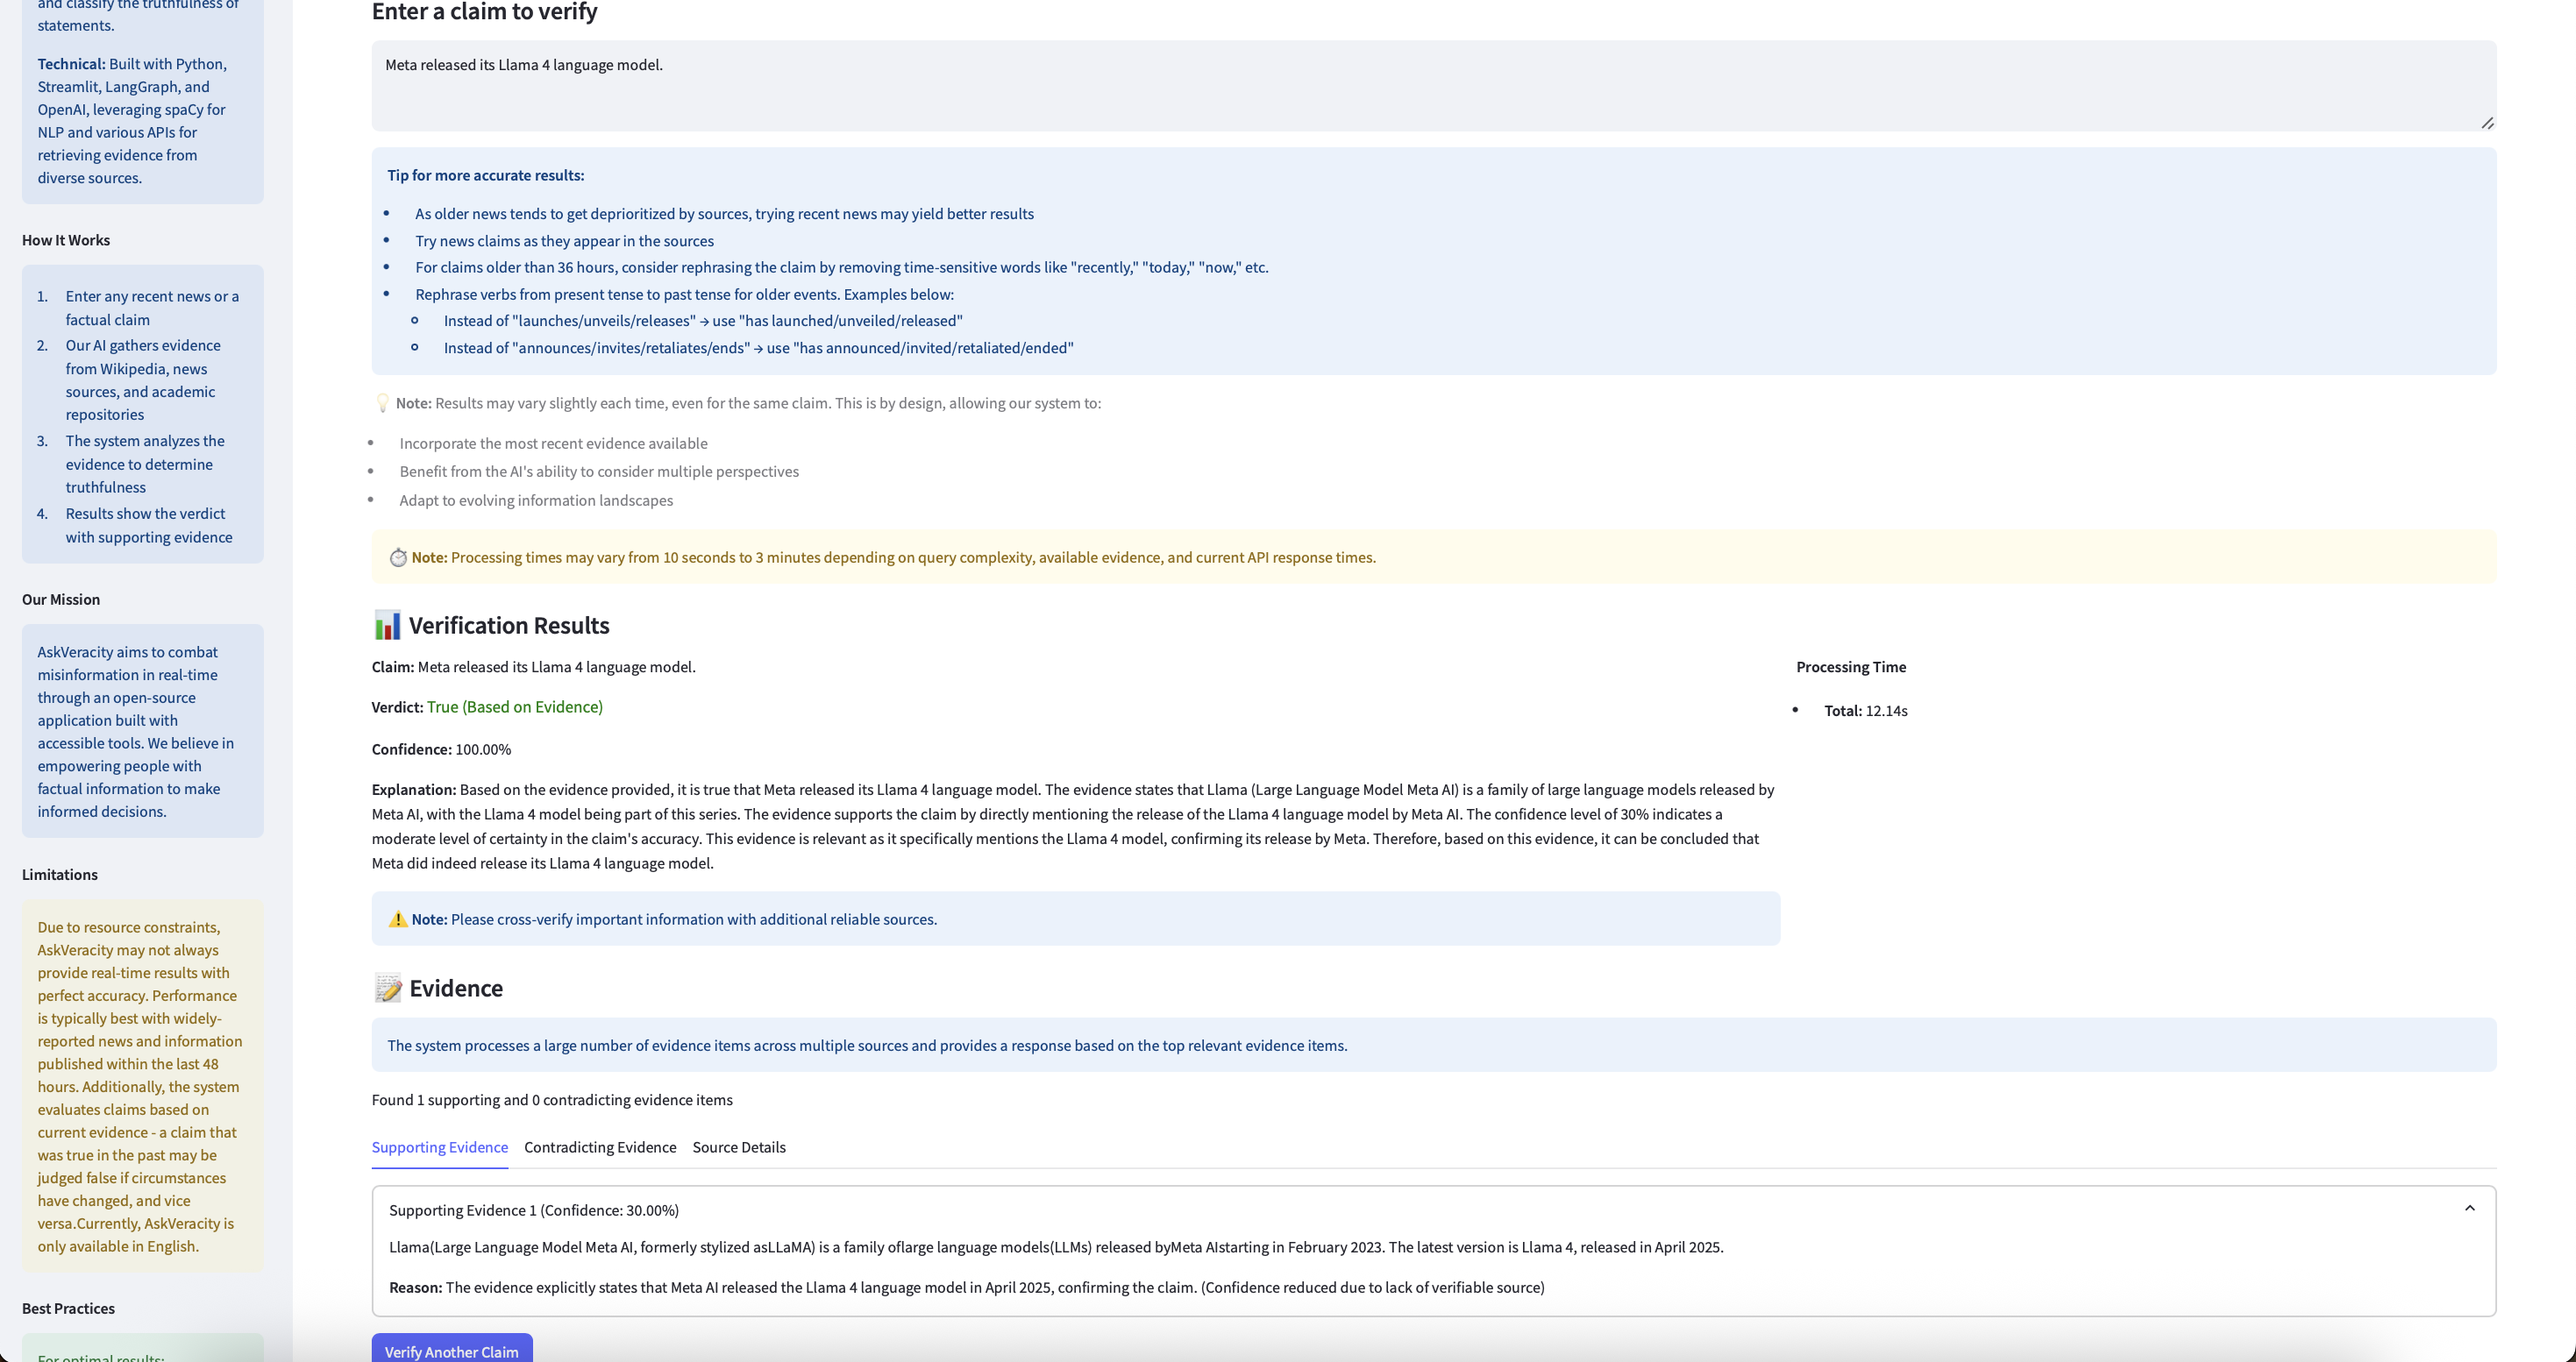
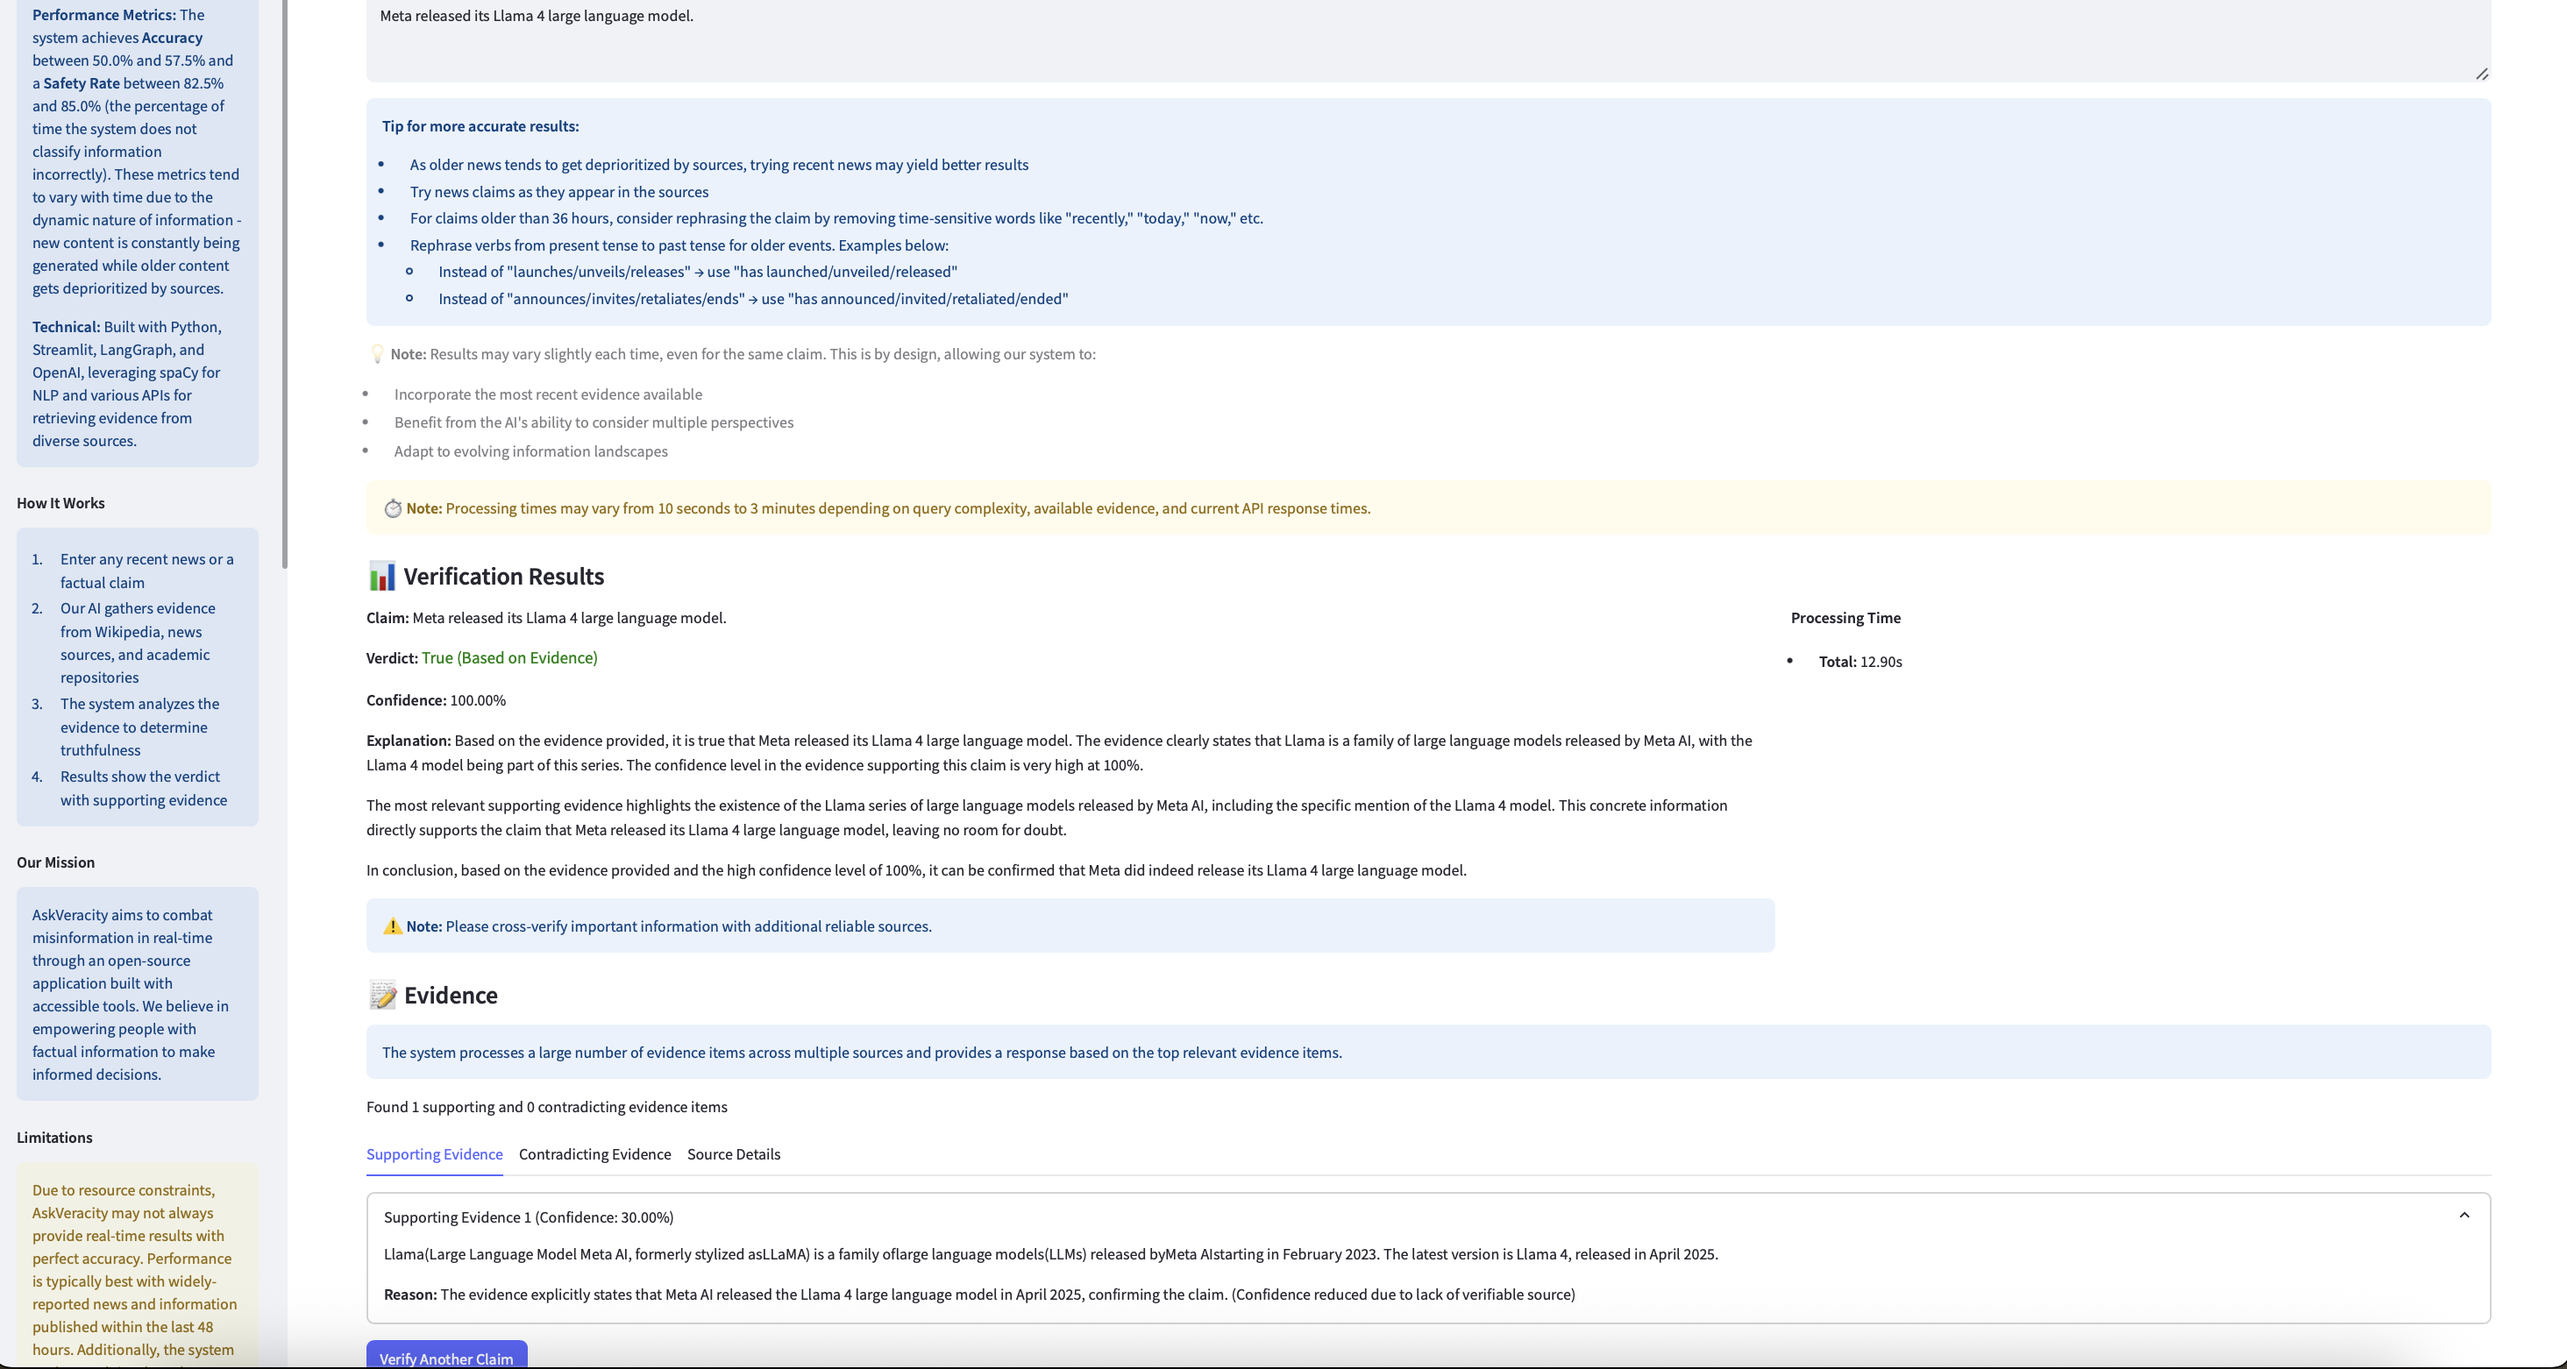
Update app.py, changelog.md, evaluate_performance.py, and app_screenshot.png

diff --git a/app.py b/app.py
@@ -147,6 +147,8 @@ with st.sidebar:
     st.info(
         "This system uses a combination of NLP techniques and LLMs to "
         "extract claims, gather evidence, and classify the truthfulness of statements.\n\n"
+        "**Performance Metrics:** The system achieves **Accuracy** between 50.0% and 57.5% and a **Safety Rate** between 82.5% and 85.0% (the percentage of time the system does not classify information incorrectly). "
+        "These metrics tend to vary with time due to the dynamic nature of information - new content is constantly being generated while older content gets deprioritized by sources.\n\n"
         "**Technical:** Built with Python, Streamlit, LangGraph, and OpenAI, leveraging spaCy for NLP and various APIs for retrieving evidence from diverse sources."
     )
     
@@ -256,8 +258,7 @@ claim_input = st.text_area("",
                          height=100,
                          placeholder=(
                              "Examples: The Eiffel Tower is located in Rome, Italy. "
-                             "Meta recently released its Llama 4 large language model. "
-                             "Justin Trudeau is not the Canadian Prime Minister anymore. "
+                             "Meta released its Llama 4 large language model. "
                              "A recent piece of news."
                          ),
                          key="claim_input_area",

diff --git a/evaluate_performance.py b/evaluate_performance.py
@@ -424,7 +424,7 @@ def create_charts(metrics, output_dir="."):
         plt.savefig(os.path.join(output_dir, 'accuracy_by_class.png'))
         plt.close()  # Close the figure to free memory
         
-        # Plot 2: Safety Rate by class
+        # Plot 2: Safety rate by class
         plt.figure(figsize=(10, 6))
         safety_rates = [metrics['per_class_metrics'][cls]['safety_rate'] for cls in classes]
         

diff --git a/docs/changelog.md b/docs/changelog.md
@@ -2,6 +2,15 @@
 
 All notable changes to the AskVeracity fact-checking and misinformation detection system will be documented in this file.
 
+## [0.4.2] - 2025-04-28
+
+### Added
+- Added performance metrics (Accuracy: 50.0%-57.5%, Safety Rate: 82.5%-85.0%) to app's About section
+
+### Changed
+- Updated claim examples in app.py input placeholder
+- Updated app_screenshot.png to reflect current UI changes
+
 ## [0.4.1] - 2025-04-25
 
 ### Updated
